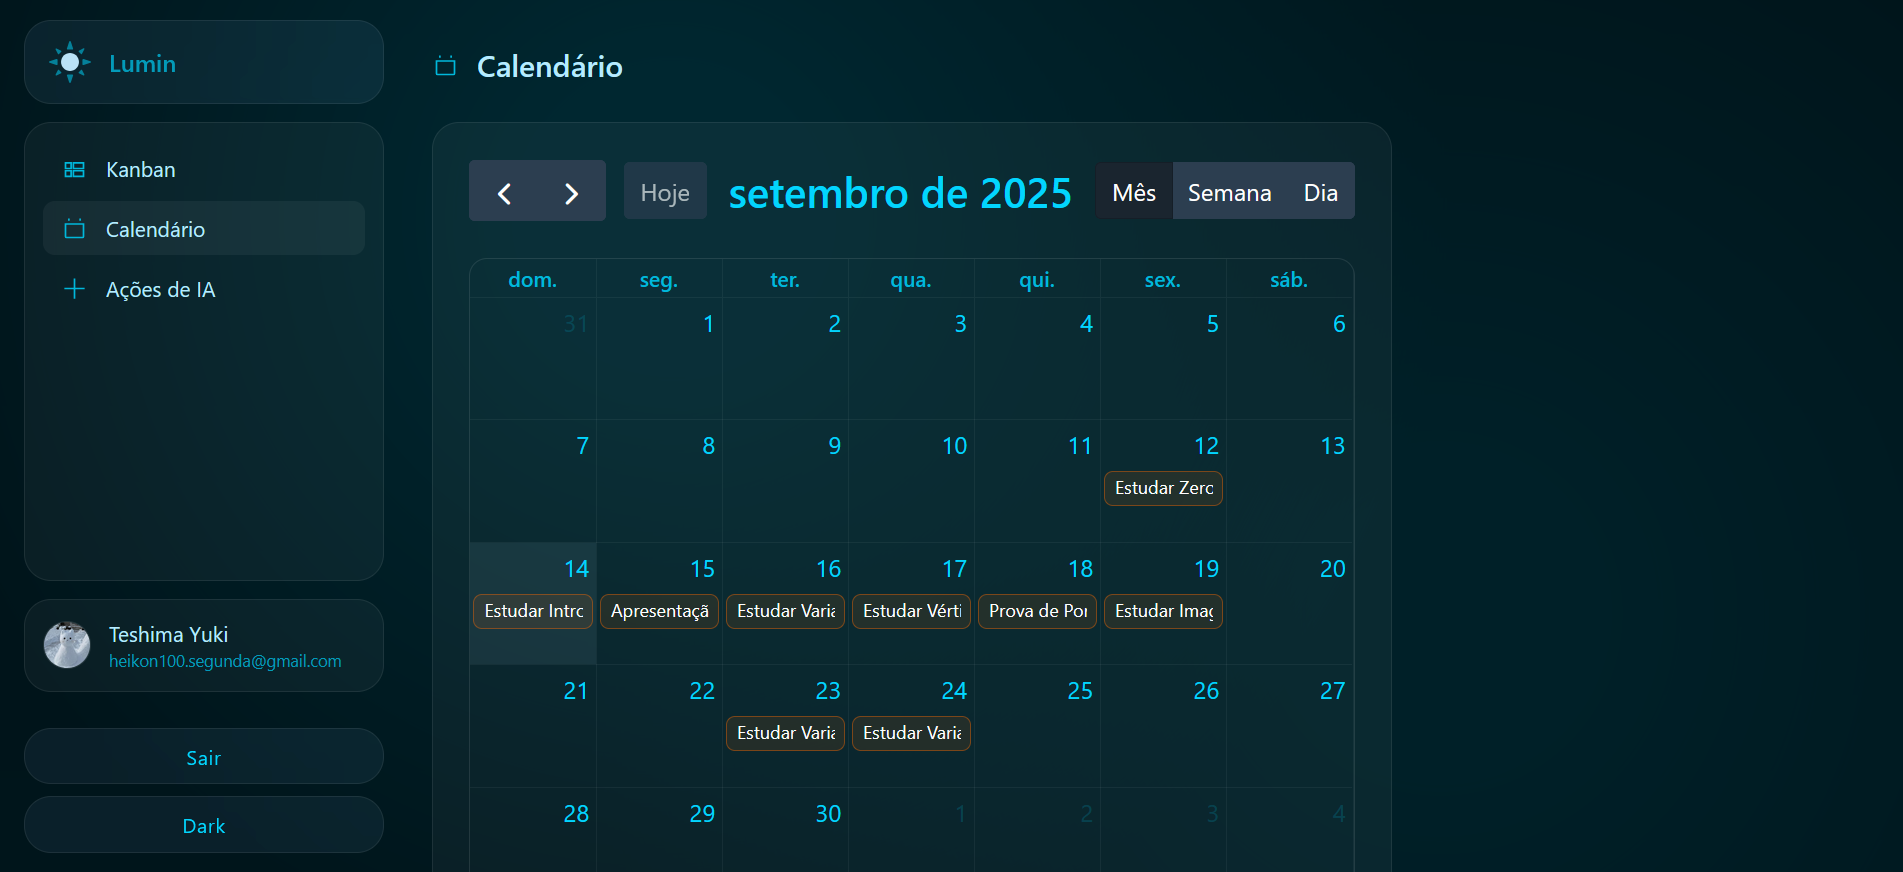
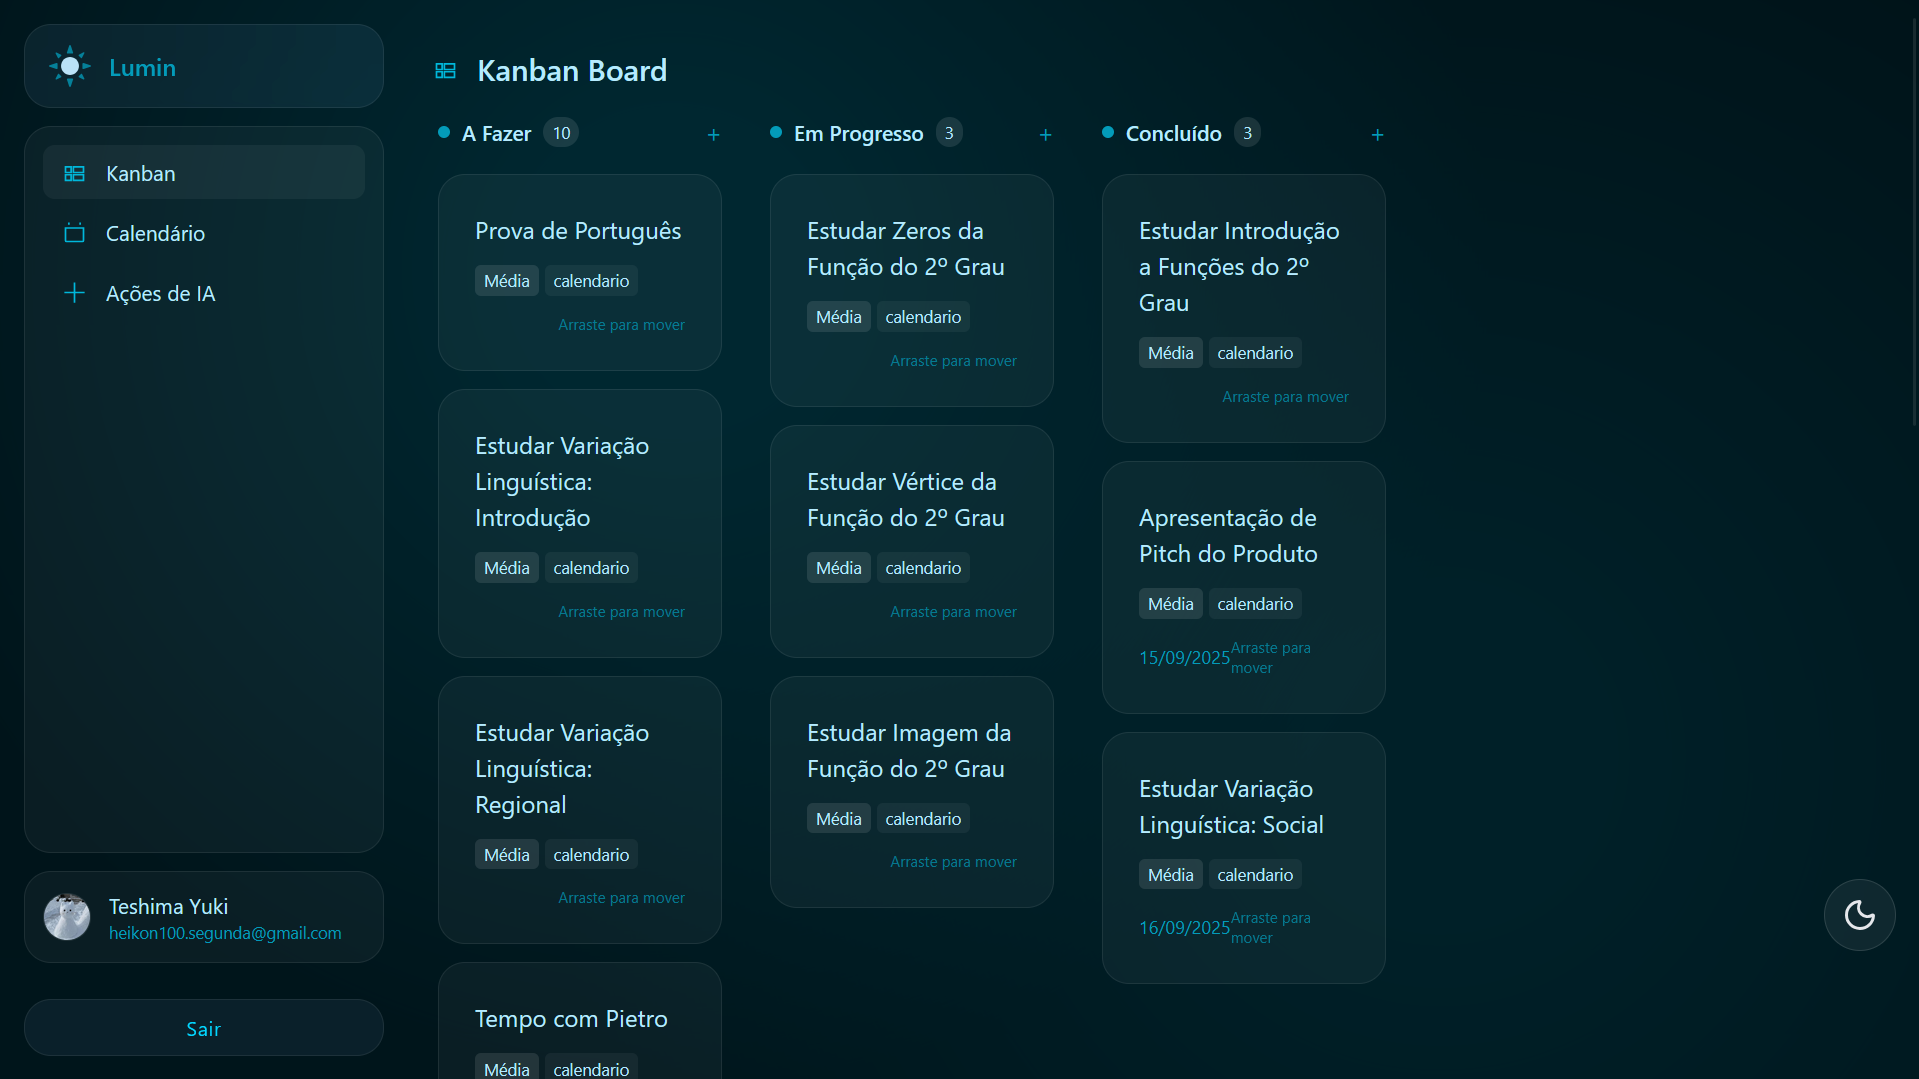
added event details modal

diff --git a/dashboard/index.html b/dashboard/index.html
@@ -290,6 +290,80 @@
               </form>
             </div>
           </div>
+
+          <!-- Preview de Tarefa (novo) -->
+          <div
+            id="modal-preview"
+            class="fixed inset-0 z-50 hidden bg-black/40 items-center justify-center p-4"
+          >
+            <div
+              id="preview-dialog"
+              role="dialog"
+              aria-modal="true"
+              aria-labelledby="preview-title"
+              aria-describedby="preview-desc"
+              class="bg-white dark:bg-lumi-900 rounded-2xl w-full max-w-md shadow-xl border border-lumi-300 relative focus:outline-none"
+              tabindex="-1"
+            >
+              <button
+                id="close-preview"
+                class="absolute top-3 right-3 text-lumi-400 hover:text-lumi-200 text-xl"
+                aria-label="Fechar detalhes"
+              >
+                &times;
+              </button>
+              <div class="p-6 md:p-8">
+                <h2
+                  id="preview-title"
+                  class="text-lg font-semibold text-lumi-400 mb-4"
+                >
+                  Detalhes da tarefa
+                </h2>
+
+                <div class="grid gap-3 text-sm" id="preview-desc">
+                  <div>
+                    <div class="text-xs text-lumi-500">Título</div>
+                    <p id="pv-name" class="text-lumi-100 font-medium"></p>
+                  </div>
+
+                  <div class="flex flex-wrap gap-2">
+                    <span
+                      id="pv-type"
+                      class="px-2 py-0.5 rounded bg-white/10 text-xs"
+                    ></span>
+                    <span
+                      id="pv-priority"
+                      class="px-2 py-0.5 rounded bg-white/10 text-xs"
+                    ></span>
+                  </div>
+
+                  <div class="grid grid-cols-2 gap-3">
+                    <div>
+                      <div class="text-xs text-lumi-500">Início</div>
+                      <p id="pv-start" class="text-lumi-200"></p>
+                    </div>
+                    <div>
+                      <div class="text-xs text-lumi-500">Entrega</div>
+                      <p id="pv-end" class="text-lumi-200"></p>
+                    </div>
+                  </div>
+
+                  <div>
+                    <div class="text-xs text-lumi-500 mb-1">Descrição</div>
+                    <p
+                      id="pv-description"
+                      class="text-lumi-200 whitespace-pre-wrap"
+                    ></p>
+                  </div>
+                </div>
+
+                <div class="mt-6 flex justify-end">
+                  <button id="pv-close-btn" class="btn-ghost">Fechar</button>
+                </div>
+              </div>
+            </div>
+          </div>
+
           <div class="flex items-center justify-between px-1">
             <div class="flex items-center gap-2">
               <span
@@ -569,6 +643,85 @@
         renderColumn(columnKey, tasksArray(columnKey));
       }
 
+      // Preview modal helpers
+      const pvOverlay = document.getElementById("modal-preview");
+      const pvDialog = document.getElementById("preview-dialog");
+      const pvCloseX = document.getElementById("close-preview");
+      const pvCloseBtn = document.getElementById("pv-close-btn");
+      const pvName = document.getElementById("pv-name");
+      const pvType = document.getElementById("pv-type");
+      const pvPriority = document.getElementById("pv-priority");
+      const pvStart = document.getElementById("pv-start");
+      const pvEnd = document.getElementById("pv-end");
+      const pvDesc = document.getElementById("pv-description");
+
+      let lastFocused = null;
+
+      function formatDate(d) {
+        if (!d) return "-";
+        try {
+          return new Date(d).toLocaleDateString("pt-BR");
+        } catch {
+          return "-";
+        }
+      }
+
+      function openPreview(task) {
+        if (!pvOverlay || !pvDialog) return;
+        lastFocused = document.activeElement;
+
+        pvName.textContent = task?.name || task?.title || "Sem título";
+        pvType.textContent = task?.type ? `Tipo: ${task.type}` : "Tipo: -";
+        pvPriority.textContent = `Prioridade: ${task?.priority || "-"}`;
+        pvStart.textContent = formatDate(task?.start_date);
+        pvEnd.textContent = formatDate(task?.end_date);
+        pvDesc.textContent = task?.description || "Sem descrição.";
+
+        pvOverlay.classList.remove("hidden");
+        pvOverlay.classList.add("flex");
+
+        // Focus dialog for accessibility
+        setTimeout(() => pvDialog.focus(), 0);
+      }
+
+      function hidePreview() {
+        pvOverlay?.classList.add("hidden");
+        pvOverlay?.classList.remove("flex");
+        if (lastFocused && typeof lastFocused.focus === "function") {
+          lastFocused.focus();
+        }
+      }
+
+      // Close interactions
+      pvCloseX?.addEventListener("click", hidePreview);
+      pvCloseBtn?.addEventListener("click", hidePreview);
+      pvOverlay?.addEventListener("click", (e) => {
+        if (e.target === pvOverlay) hidePreview();
+      });
+      document.addEventListener("keydown", (e) => {
+        if (!pvOverlay || pvOverlay.classList.contains("hidden")) return;
+        if (e.key === "Escape") {
+          e.preventDefault();
+          hidePreview();
+        }
+        // Simple focus trap
+        if (e.key === "Tab") {
+          const focusables = pvDialog.querySelectorAll(
+            'button, [href], input, select, textarea, [tabindex]:not([tabindex="-1"])'
+          );
+          if (!focusables.length) return;
+          const first = focusables[0];
+          const last = focusables[focusables.length - 1];
+          if (e.shiftKey && document.activeElement === first) {
+            e.preventDefault();
+            last.focus();
+          } else if (!e.shiftKey && document.activeElement === last) {
+            e.preventDefault();
+            first.focus();
+          }
+        }
+      });
+
       // Renderização por coluna
       function renderColumn(columnKey, tasks) {
         const listEl = document.getElementById(`tasks-${columnKey}`);
@@ -608,15 +761,17 @@
               }</span>
               ${
                 task.type
-                  ? `<span class=\"px-1.5 py-0.5 rounded bg-white/5\">${task.type}</span>`
+                  ? `<span class="px-1.5 py-0.5 rounded bg-white/5">${task.type}</span>`
                   : ""
               }
             </div>
             <div class="flex items-center justify-between text-xs text-lumi-400">
               <span>${due}</span>
-              <span class="text-[10px] opacity-70">Arraste para mover</span>
+              <span class="text-[10px] opacity-70">Clique para ver</span>
             </div>
           `;
+          // Preview on click
+          article.addEventListener("click", () => openPreview(task));
           // DnD handlers
           article.addEventListener("dragstart", (e) => {
             try {

diff --git a/dashboard/functions/ai-assistant.js b/dashboard/functions/ai-assistant.js
@@ -59,11 +59,14 @@ Regras ao manipular tarefas:
 - Ao criar eventos (create_event), use { title, start, end, allDay } com datas ISO. Um plano de estudos deve gerar um evento por dia sugerido.
 - Não declare que priorizou/atualizou algo que ainda não existe; se necessário, crie primeiro e só então atualize/mover.
 
+Planos/Guias de estudo (OBRIGATÓRIO):
+- Se o pedido mencionar guia/plano/cronograma de estudos, cada tarefa criada DEVE ter uma descrição detalhada (1–3 frases) explicando objetivo, tópicos a cobrir e orientação prática (ex.: tempo sugerido, materiais, próximos passos).
+
 Contexto de conversa:
 - Você receberá um "Histórico do chat (recente)". Considere esse histórico para manter a continuidade, evitar repetição e entender pedidos anteriores.
 
 Exemplo (mode=buttons):
-\n\n\`\`\`json
+\`\`\`json
 {
   "mode": "buttons",
   "reply_markdown": "Plano de estudos pronto. Clique em 'Adicionar ao Calendário' para criar os eventos.",
@@ -83,7 +86,7 @@ Exemplo (mode=buttons):
 \`\`\`
 
 Exemplo (mode=immediate):
-\n\n\`\`\`json
+\`\`\`json
 {
   "mode": "immediate",
   "reply_markdown": "Reorganizei suas tarefas por prioridade e prazos (aplicado).",
@@ -225,10 +228,22 @@ export async function applyOperations(userId, operations = []) {
           break;
         }
         case "create_task": {
+          // Fallback: garantir descrição detalhada para guias/planos de estudo
+          const data = { ...(op.data || {}) };
+          const textForCheck = `${data.name || data.title || ""} ${
+            data.description || ""
+          }`;
+          const isStudyPlan = /plano|cronograma|guia|estudo/i.test(
+            textForCheck
+          );
+          if (isStudyPlan && !data.description) {
+            data.description =
+              "Plano de estudo: explique objetivos, tópicos a cobrir, tempo sugerido e próximos passos. Ajuste conforme necessidade.";
+          }
           const created = await createTask(
             userId,
-            op.data?.status || "a-fazer",
-            op.data || {}
+            data?.status || "a-fazer",
+            data
           );
           results.push({ ok: true, type: op.type, id: created.id });
           break;
